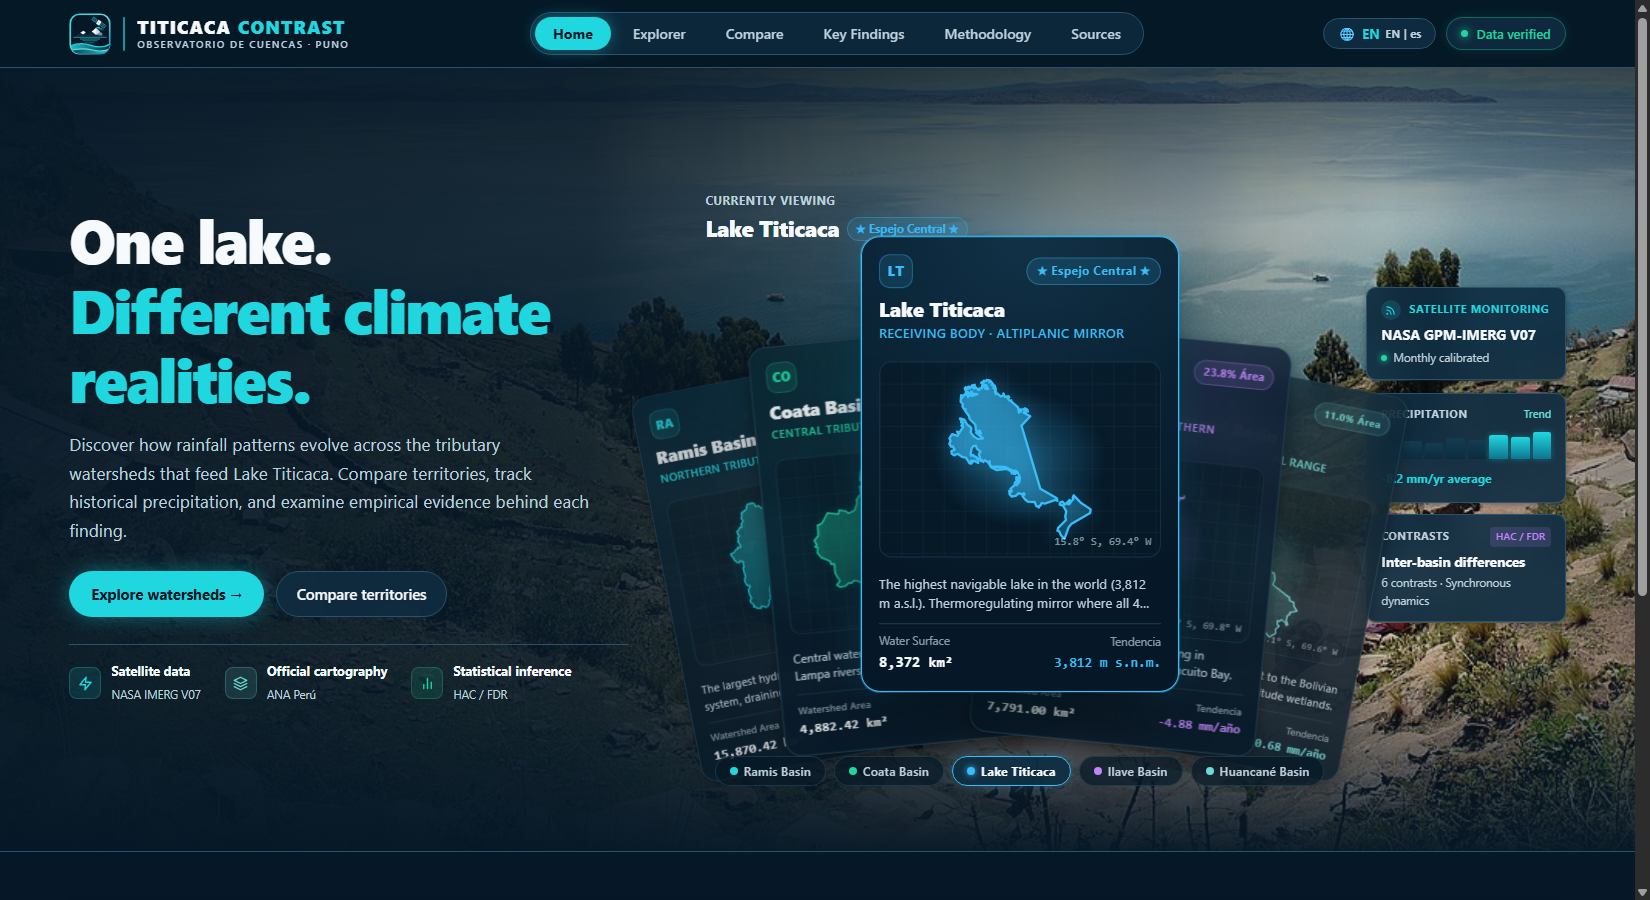
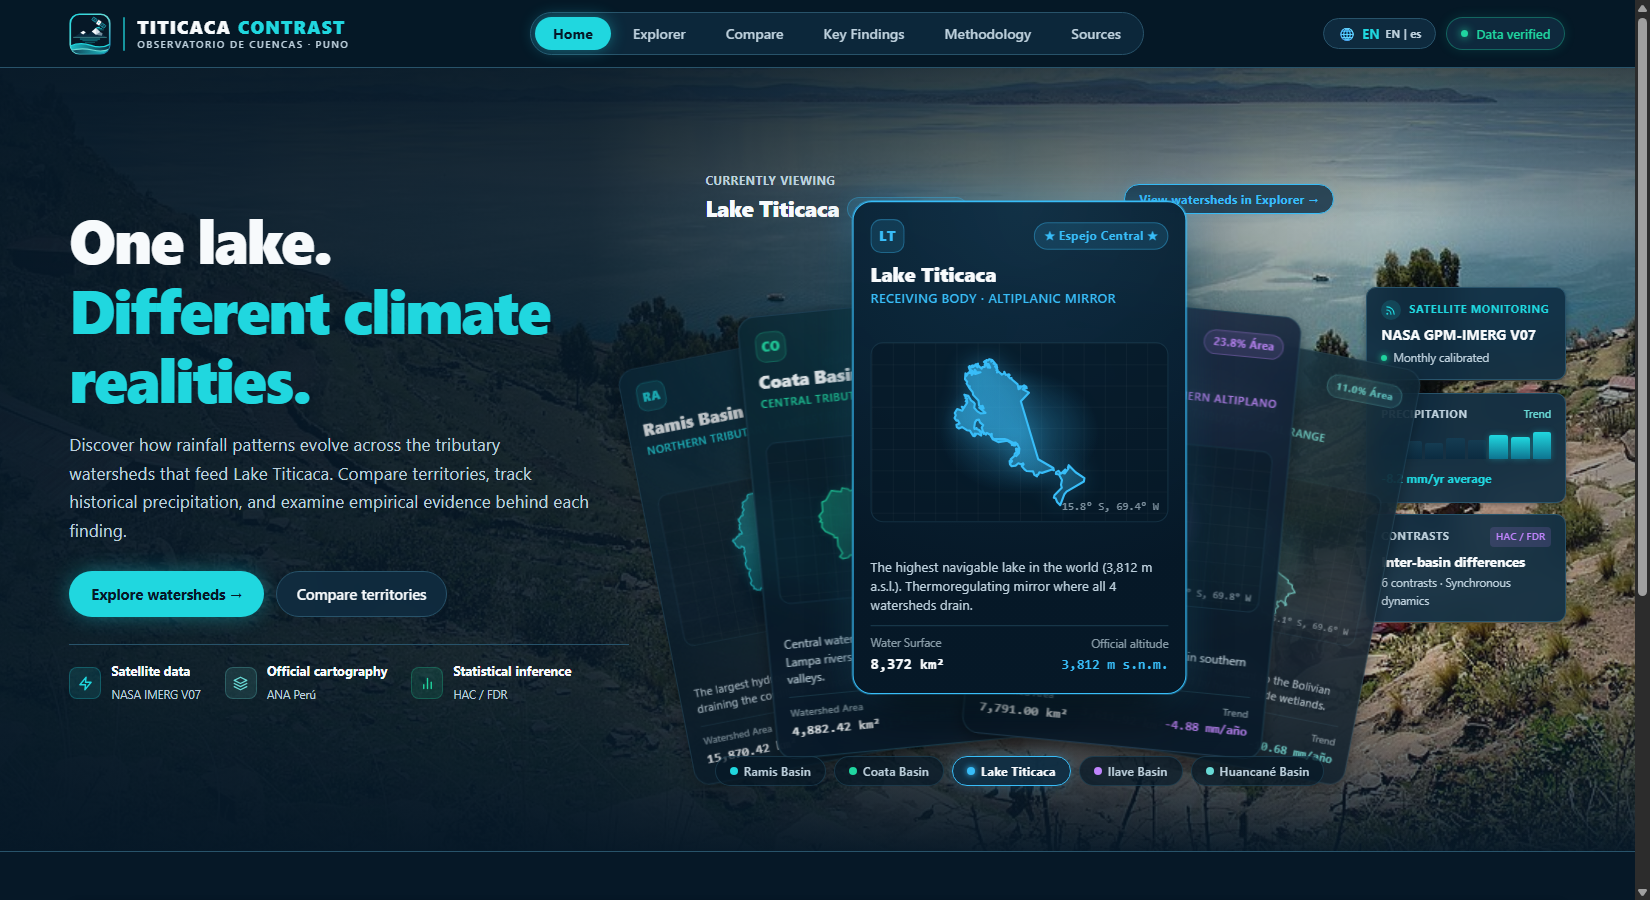
fix(hero): expand card text without truncation and pass selected basin to explorer

Changed region(s): [[0.3709, 0.1867, 0.8655, 0.8711], [0.5564, 0.4044, 0.68, 0.5911], [0.4327, 0.56, 0.4636, 0.6844]]

diff --git a/web/src/components/TerritoryHeroVisual.tsx b/web/src/components/TerritoryHeroVisual.tsx
@@ -22,6 +22,7 @@ export const TerritoryHeroVisual: React.FC<TerritoryHeroVisualProps> = ({ onSele
       stat: "15,870.42 km²",
       metricLabel: lang === "es" ? "Superficie de cuenca" : "Watershed Area",
       trend: "-11.45 mm/año",
+      trendLabel: lang === "es" ? "Tendencia" : "Trend",
       accent: "#20D7DF",
       badge: "48.4% Área",
       code: "ANA 0179+018+019",
@@ -39,6 +40,7 @@ export const TerritoryHeroVisual: React.FC<TerritoryHeroVisualProps> = ({ onSele
       stat: "4,882.42 km²",
       metricLabel: lang === "es" ? "Superficie de cuenca" : "Watershed Area",
       trend: "-8.13 mm/año",
+      trendLabel: lang === "es" ? "Tendencia" : "Trend",
       accent: "#20D6A0",
       badge: "14.9% Área",
       code: "ANA 0176",
@@ -56,6 +58,7 @@ export const TerritoryHeroVisual: React.FC<TerritoryHeroVisualProps> = ({ onSele
       stat: "8,372 km²",
       metricLabel: lang === "es" ? "Superficie hídrica" : "Water Surface",
       trend: "3,812 m s.n.m.",
+      trendLabel: lang === "es" ? "Altitud oficial" : "Official altitude",
       accent: "#38BDF8",
       badge: "★ Espejo Central ★",
       code: "ANA SNIRH Perú",
@@ -73,6 +76,7 @@ export const TerritoryHeroVisual: React.FC<TerritoryHeroVisualProps> = ({ onSele
       stat: "7,791.00 km²",
       metricLabel: lang === "es" ? "Superficie de cuenca" : "Watershed Area",
       trend: "-4.88 mm/año",
+      trendLabel: lang === "es" ? "Tendencia" : "Trend",
       accent: "#C084FC",
       badge: "23.8% Área",
       code: "ANA 016",
@@ -90,6 +94,7 @@ export const TerritoryHeroVisual: React.FC<TerritoryHeroVisualProps> = ({ onSele
       stat: "3,611.92 km²",
       metricLabel: lang === "es" ? "Superficie de cuenca" : "Watershed Area",
       trend: "-10.68 mm/año",
+      trendLabel: lang === "es" ? "Tendencia" : "Trend",
       accent: "#69DAD6",
       badge: "11.0% Área",
       code: "ANA 0178",
@@ -161,32 +166,60 @@ export const TerritoryHeroVisual: React.FC<TerritoryHeroVisualProps> = ({ onSele
           </div>
         </div>
 
-        {activeTerritory.id !== "titicaca" && onSelectBasin && (
-          <button
-            type="button"
-            onClick={() => onSelectBasin(activeTerritory.id!)}
-            style={{
-              display: "inline-flex",
-              alignItems: "center",
-              gap: "6px",
-              padding: "6px 14px",
-              borderRadius: "9999px",
-              backgroundColor: "rgba(16, 46, 67, 0.8)",
-              border: `1px solid ${activeTerritory.accent}`,
-              color: activeTerritory.accent,
-              fontSize: "0.78rem",
-              fontWeight: 700,
-              cursor: "pointer",
-              transition: "all 0.15s ease",
-              boxShadow: `0 0 10px ${activeTerritory.accent}30`
-            }}
-          >
-            {lang === "es" ? "Explorar serie histórica →" : "Explore historical series →"}
-          </button>
+        {activeTerritory.id !== "titicaca" ? (
+          onSelectBasin && (
+            <button
+              type="button"
+              onClick={() => onSelectBasin(activeTerritory.id!)}
+              style={{
+                display: "inline-flex",
+                alignItems: "center",
+                gap: "6px",
+                padding: "6px 14px",
+                borderRadius: "9999px",
+                backgroundColor: "rgba(16, 46, 67, 0.8)",
+                border: `1px solid ${activeTerritory.accent}`,
+                color: activeTerritory.accent,
+                fontSize: "0.78rem",
+                fontWeight: 700,
+                cursor: "pointer",
+                transition: "all 0.15s ease",
+                boxShadow: `0 0 10px ${activeTerritory.accent}30`
+              }}
+            >
+              {lang === "es"
+                ? `Abrir ${activeTerritory.name} en Explorador →`
+                : `Open ${activeTerritory.name} in Explorer →`}
+            </button>
+          )
+        ) : (
+          onSelectBasin && (
+            <button
+              type="button"
+              onClick={() => onSelectBasin("ramis")}
+              style={{
+                display: "inline-flex",
+                alignItems: "center",
+                gap: "6px",
+                padding: "6px 14px",
+                borderRadius: "9999px",
+                backgroundColor: "rgba(16, 46, 67, 0.8)",
+                border: `1px solid ${activeTerritory.accent}`,
+                color: activeTerritory.accent,
+                fontSize: "0.78rem",
+                fontWeight: 700,
+                cursor: "pointer",
+                transition: "all 0.15s ease",
+                boxShadow: `0 0 10px ${activeTerritory.accent}30`
+              }}
+            >
+              {lang === "es" ? "Ver cuencas en Explorador →" : "View watersheds in Explorer →"}
+            </button>
+          )
         )}
       </div>
 
-      <div style={{ width: "100%", height: "460px", position: "relative" }}>
+      <div style={{ width: "100%", height: "500px", position: "relative" }}>
         <OrbitCardStack
           items={territories}
           defaultActiveIndex={2}
@@ -194,8 +227,10 @@ export const TerritoryHeroVisual: React.FC<TerritoryHeroVisualProps> = ({ onSele
           lift={38}
           onActiveChange={(item) => setActiveTerritory(item)}
           onCardClick={(item) => {
-            if (item.id !== "titicaca" && onSelectBasin) {
-              onSelectBasin(item.id!)
+            if (item.id === "titicaca") {
+              onSelectBasin?.("ramis")
+            } else if (item.id && onSelectBasin) {
+              onSelectBasin(item.id)
             }
           }}
         />

diff --git a/web/src/components/ui/orbit-card-stack.tsx b/web/src/components/ui/orbit-card-stack.tsx
@@ -12,6 +12,7 @@ export interface OrbitStackItem {
   code?: string
   metricLabel?: string
   trend?: string
+  trendLabel?: string
   altitude?: string
   badge?: string
   svgPath?: string
@@ -78,7 +79,7 @@ export const OrbitCardStack: React.FC<OrbitCardStackProps> = ({
         position: "relative",
         width: "100%",
         height: "100%",
-        minHeight: isMobile ? "460px" : "560px",
+        minHeight: isMobile ? "500px" : "570px",
         display: "flex",
         flexDirection: "column",
         alignItems: "center",
@@ -92,7 +93,7 @@ export const OrbitCardStack: React.FC<OrbitCardStackProps> = ({
         style={{
           position: "relative",
           width: "100%",
-          height: isMobile ? "390px" : "450px",
+          height: isMobile ? "420px" : "480px",
           display: "flex",
           alignItems: "center",
           justifyContent: "center"
@@ -130,8 +131,8 @@ export const OrbitCardStack: React.FC<OrbitCardStackProps> = ({
               }}
               style={{
                 position: "absolute",
-                width: isMobile ? "240px" : "clamp(260px, 20vw, 300px)",
-                height: isMobile ? "360px" : "430px",
+                width: isMobile ? "250px" : "clamp(270px, 21vw, 315px)",
+                height: isMobile ? "400px" : "465px",
                 transform: `translateX(${translateX}px) translateY(${translateY}px) rotateZ(${rotateZ}deg) scale(${scale})`,
                 zIndex,
                 opacity,
@@ -223,7 +224,7 @@ export const OrbitCardStack: React.FC<OrbitCardStackProps> = ({
                 style={{
                   position: "relative",
                   width: "100%",
-                  height: isMobile ? "150px" : "185px",
+                  height: isMobile ? "135px" : "170px",
                   display: "flex",
                   alignItems: "center",
                   justifyContent: "center",
@@ -304,12 +305,8 @@ export const OrbitCardStack: React.FC<OrbitCardStackProps> = ({
                   style={{
                     fontSize: "0.78rem",
                     color: "var(--color-text-secondary, #BED1DD)",
-                    lineHeight: 1.4,
-                    margin: "0 0 10px 0",
-                    display: "-webkit-box",
-                    WebkitLineClamp: 2,
-                    WebkitBoxOrient: "vertical",
-                    overflow: "hidden"
+                    lineHeight: 1.45,
+                    margin: "0 0 10px 0"
                   }}
                 >
                   {item.description}
@@ -337,7 +334,7 @@ export const OrbitCardStack: React.FC<OrbitCardStackProps> = ({
                   {item.trend && (
                     <div style={{ textAlign: "right" }}>
                       <span style={{ color: "rgba(190, 209, 221, 0.7)", display: "block", fontSize: "0.68rem" }}>
-                        Tendencia
+                        {item.trendLabel || "Tendencia"}
                       </span>
                       <strong style={{ color: accentColor, fontFamily: "var(--font-family-mono, monospace)", fontSize: "0.82rem" }}>
                         {item.trend}

diff --git a/web/src/pages/Explorer.tsx b/web/src/pages/Explorer.tsx
@@ -10,14 +10,23 @@ import { ExportControls } from "../components/ExportControls"
 
 export interface ExplorerProps {
   data: HydrologyData
+  selectedBasinId?: string
+  onSelectBasin?: (basinId: string) => void
 }
 
-export const Explorer: React.FC<ExplorerProps> = ({ data }) => {
+export const Explorer: React.FC<ExplorerProps> = ({ data, selectedBasinId, onSelectBasin }) => {
   const { t, lang } = useLanguage()
-  const [selectedBasin, setSelectedBasin] = useState<string>("ramis")
+  const [internalBasin, setInternalBasin] = useState<string>(selectedBasinId || "ramis")
   const [startYear, setStartYear] = useState<number>(2001)
   const [endYear, setEndYear] = useState<number>(2024)
   const [chartMode, setChartMode] = useState<"annual" | "monthly">("annual")
+
+  const selectedBasin = selectedBasinId || internalBasin
+
+  const handleSelectBasin = (basinId: string) => {
+    setInternalBasin(basinId)
+    onSelectBasin?.(basinId)
+  }
 
   const basins = data.basins.length > 0 ? data.basins : [
     { id: "ramis" as const, name: "Ramis", official_code: "0179+018+019", area_km2: 15870.42, source: "ANA" },
@@ -71,7 +80,7 @@ export const Explorer: React.FC<ExplorerProps> = ({ data }) => {
         <div>
           <BasinMap
             selectedBasin={selectedBasin}
-            onSelectBasin={setSelectedBasin}
+            onSelectBasin={handleSelectBasin}
             geoJsonData={data.geoJson}
             basins={data.basins}
             height="440px"
@@ -84,7 +93,7 @@ export const Explorer: React.FC<ExplorerProps> = ({ data }) => {
               id="basin-selector-explorer"
               label={lang === "es" ? "Seleccionar cuenca tributaria:" : "Select tributary watershed:"}
               selectedBasin={selectedBasin}
-              onSelectBasin={setSelectedBasin}
+              onSelectBasin={handleSelectBasin}
               basins={data.basins}
             />
 

diff --git a/web/src/App.tsx b/web/src/App.tsx
@@ -12,6 +12,7 @@ import { loadAllHydrologyData, type HydrologyData } from "./app/dataLoader"
 
 export const App: React.FC = () => {
   const [currentTab, setCurrentTab] = useState<string>("home")
+  const [selectedBasinId, setSelectedBasinId] = useState<string>("ramis")
   const [dataPayload, setDataPayload] = useState<HydrologyData>({
     status: "loading",
     manifest: null,
@@ -37,12 +38,17 @@ export const App: React.FC = () => {
     }
   }, [])
 
+  const handleSelectBasin = (basinId: string) => {
+    setSelectedBasinId(basinId)
+    setCurrentTab("explorer")
+  }
+
   const renderContent = () => {
     switch (currentTab) {
       case "home":
-        return <Home data={dataPayload} onNavigate={setCurrentTab} />
+        return <Home data={dataPayload} onNavigate={setCurrentTab} onSelectBasin={handleSelectBasin} />
       case "explorer":
-        return <Explorer data={dataPayload} />
+        return <Explorer data={dataPayload} selectedBasinId={selectedBasinId} onSelectBasin={setSelectedBasinId} />
       case "compare":
         return <Compare data={dataPayload} />
       case "findings":
@@ -52,7 +58,7 @@ export const App: React.FC = () => {
       case "sources":
         return <Sources data={dataPayload} />
       default:
-        return <Home data={dataPayload} onNavigate={setCurrentTab} />
+        return <Home data={dataPayload} onNavigate={setCurrentTab} onSelectBasin={handleSelectBasin} />
     }
   }
 

diff --git a/web/src/pages/Home.tsx b/web/src/pages/Home.tsx
@@ -8,9 +8,10 @@ import { HeroTelemetryPanels } from "../components/HeroTelemetryPanels"
 export interface HomeProps {
   data: HydrologyData
   onNavigate: (tab: string) => void
+  onSelectBasin?: (basinId: string) => void
 }
 
-export const Home: React.FC<HomeProps> = ({ data, onNavigate }) => {
+export const Home: React.FC<HomeProps> = ({ data, onNavigate, onSelectBasin }) => {
   const { t } = useLanguage()
   const isReady = data.status === "ready"
 
@@ -225,7 +226,13 @@ export const Home: React.FC<HomeProps> = ({ data, onNavigate }) => {
             </div>
 
             <div className="hero-right-zone">
-              <TerritoryHeroVisual onSelectBasin={() => onNavigate("explorer")} />
+              <TerritoryHeroVisual onSelectBasin={(basinId) => {
+                if (onSelectBasin) {
+                  onSelectBasin(basinId)
+                } else {
+                  onNavigate("explorer")
+                }
+              }} />
               <HeroTelemetryPanels />
             </div>
           </div>

diff --git a/web/src/tests/navigation.test.tsx b/web/src/tests/navigation.test.tsx
@@ -35,4 +35,18 @@ describe("Header navigation", () => {
     })
     expect(screen.getByRole("heading", { name: /Sources|Fuentes/i })).toBeInTheDocument()
   })
+
+  it("navigates directly to a selected basin in Explorer when clicking its card", async () => {
+    await act(async () => {
+      render(<App />)
+    })
+
+    const huancaneButtons = screen.getAllByRole("button", { name: /Huancané/i })
+    await act(async () => {
+      fireEvent.click(huancaneButtons[0])
+    })
+
+    expect(screen.getByRole("heading", { name: /Explorador|Explorer/i })).toBeInTheDocument()
+    expect(screen.getAllByText(/3,611\.92/i).length).toBeGreaterThanOrEqual(1)
+  })
 })

diff --git a/README_es.md b/README_es.md
@@ -23,7 +23,7 @@
 [![Python](https://img.shields.io/badge/Python-3.11+-3776AB?style=for-the-badge&logo=python&logoColor=white)](https://www.python.org/)
 [![NASA IMERG V07](https://img.shields.io/badge/NASA_GES_DISC-IMERG_V07_Final-0B3D91?style=for-the-badge&logo=nasa&logoColor=white)](https://disc.gsfc.nasa.gov/)
 [![ANA Perú](https://img.shields.io/badge/ANA_Perú-SNIRH_Oficial-008080?style=for-the-badge)](https://snirh.ana.gob.pe/)
-[![Vitest](https://img.shields.io/badge/Vitest-16%2F16_Passed-success?style=for-the-badge&logo=vitest&logoColor=white)](https://vitest.dev/)
+[![Vitest](https://img.shields.io/badge/Vitest-17%2F17_Passed-success?style=for-the-badge&logo=vitest&logoColor=white)](https://vitest.dev/)
 [![Pytest](https://img.shields.io/badge/Pytest-32%2F32_Passed-success?style=for-the-badge&logo=pytest&logoColor=white)](https://pytest.org/)
 [![Security](https://img.shields.io/badge/Security-OWASP_CSP_Hardened-blueviolet?style=for-the-badge)](https://owasp.org/)
 [![License: MIT](https://img.shields.io/badge/License-MIT-yellow.svg?style=for-the-badge)](LICENSE)
@@ -177,7 +177,7 @@ TITICACA-CONTRAST/
 │   │   ├── components/             # Pila orbital, mapas, gráficos y telemetría
 │   │   ├── pages/                  # Inicio, Explorador, Comparador, Hallazgos, etc.
 │   │   ├── styles/                 # Tokens CSS y estilos globales
-│   │   └── tests/                  # 16 pruebas unitarias y de integración (Vitest)
+│   │   └── tests/                  # 17 pruebas unitarias y de integración (Vitest)
 │   ├── index.html                  # Entrada HTML con meta-tags CSP blindados
 │   ├── package.json                # Configuración npm y scripts de desarrollo
 │   └── vite.config.ts              # Configuración Vite con particionado manualChunks

diff --git a/README.md b/README.md
@@ -23,7 +23,7 @@
 [![Python](https://img.shields.io/badge/Python-3.11+-3776AB?style=for-the-badge&logo=python&logoColor=white)](https://www.python.org/)
 [![NASA IMERG V07](https://img.shields.io/badge/NASA_GES_DISC-IMERG_V07_Final-0B3D91?style=for-the-badge&logo=nasa&logoColor=white)](https://disc.gsfc.nasa.gov/)
 [![ANA Perú](https://img.shields.io/badge/ANA_Peru-SNIRH_Official-008080?style=for-the-badge)](https://snirh.ana.gob.pe/)
-[![Vitest](https://img.shields.io/badge/Vitest-16%2F16_Passed-success?style=for-the-badge&logo=vitest&logoColor=white)](https://vitest.dev/)
+[![Vitest](https://img.shields.io/badge/Vitest-17%2F17_Passed-success?style=for-the-badge&logo=vitest&logoColor=white)](https://vitest.dev/)
 [![Pytest](https://img.shields.io/badge/Pytest-32%2F32_Passed-success?style=for-the-badge&logo=pytest&logoColor=white)](https://pytest.org/)
 [![Security](https://img.shields.io/badge/Security-OWASP_CSP_Hardened-blueviolet?style=for-the-badge)](https://owasp.org/)
 [![License: MIT](https://img.shields.io/badge/License-MIT-yellow.svg?style=for-the-badge)](LICENSE)
@@ -177,7 +177,7 @@ TITICACA-CONTRAST/
 │   │   ├── components/             # Orbit stack, maps, charts and telemetry
 │   │   ├── pages/                  # Home, Explorer, Compare, Findings, etc.
 │   │   ├── styles/                 # CSS design tokens and global styles
-│   │   └── tests/                  # 16 unit & integration tests (Vitest)
+│   │   └── tests/                  # 17 unit & integration tests (Vitest)
 │   ├── index.html                  # HTML entry point with CSP meta tags
 │   ├── package.json                # npm dependencies and scripts
 │   └── vite.config.ts              # Vite configuration with manualChunks
